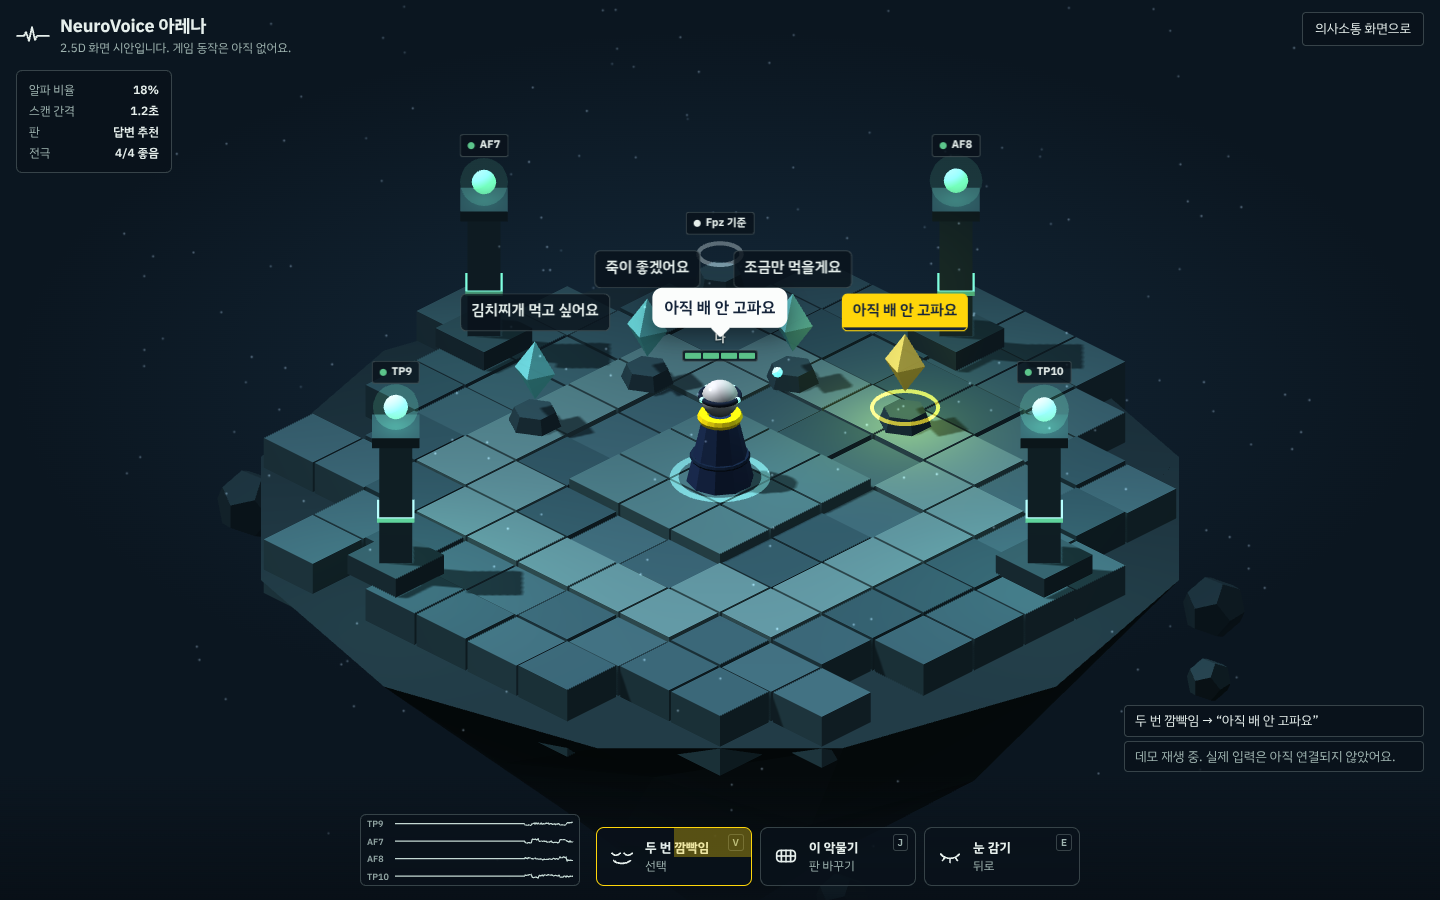
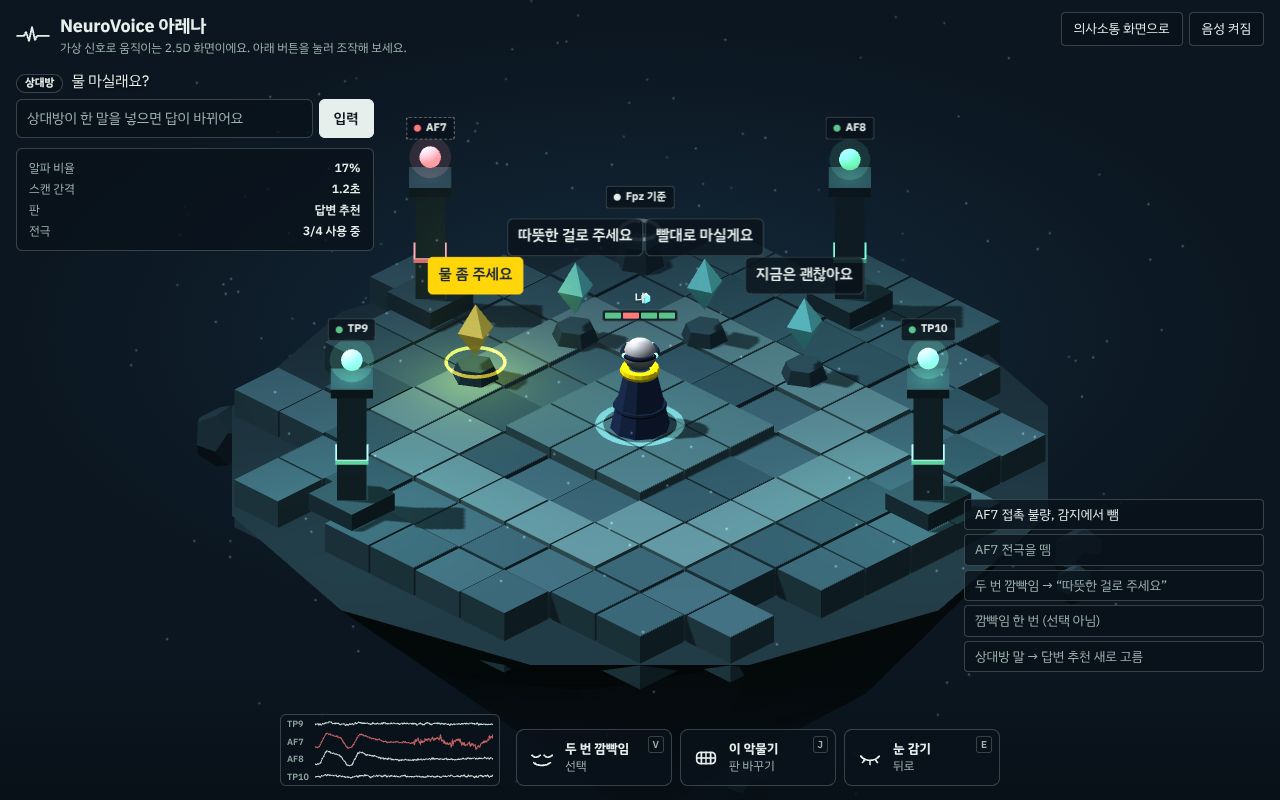
Describe arena controls in README
Claude-Session: https://claude.ai/code/session_019r8MFpbASB7t6JJiH4ax6f

diff --git a/README.md b/README.md
@@ -37,13 +37,24 @@
 
 <img src="docs/screenshot-mobile.png" width="300" alt="NeuroVoice 모바일 화면(어두운 테마)">
 
-## 2.5D 아레나 (화면 시안)
+## 2.5D 아레나
 
-`arena.html`은 같은 흐름을 쿼터뷰 장면으로 보여 주는 디자인 시안입니다. 섬 가장자리의 기둥 네 개가 전극 배치(TP9, AF7, AF8, TP10)를, 위쪽의 작은 돌이 기준 전극 Fpz를 나타내고, 가운데 아바타 둘레의 크리스털이 답변 후보입니다. 스캔 하이라이트가 크리스털을 돌고, 데모 루프가 두 번 깜빡임(선택), 이 악물기(판 바꾸기), 눈 감기(뒤로)를 차례로 보여 줍니다. 실제 입력과 게임 동작은 아직 연결하지 않았습니다.
+`arena.html`은 같은 흐름을 쿼터뷰 장면으로 조작하는 화면입니다. 섬 가장자리의 기둥 네 개가 전극 배치(TP9, AF7, AF8, TP10)를, 위쪽의 작은 돌이 기준 전극 Fpz를 나타내고, 가운데 아바타 둘레의 크리스털이 답변 후보입니다. 의사소통 화면과 같은 가상 헤드밴드, 감지기, 스캐너로 움직입니다.
+
+| 조작 | 결과 |
+|---|---|
+| 두 번 깜빡임 (하단 버튼, `V`) | 빛나는 크리스털로 빔이 나가고 그 말을 읽어 줍니다 |
+| 이 악물기 (누르고 있기, `J`) | 답변 추천 ↔ 자주 쓰는 말 |
+| 눈 감기 (누르고 있기, `E`) | 보호막이 켜지고 처음 크리스털로 돌아갑니다 |
+| 크리스털 이름표 누르기 | 그 말을 바로 고릅니다 |
+| 전극 이름표 누르기 | 그 전극이 떨어진 상태가 되어 기둥이 붉어지고 감지에서 빠집니다 |
+| 상대방 말 입력 | 크리스털의 답변 후보가 바뀝니다 |
+
+`B`를 누르면 한 번 깜빡임이 들어가는데, 선택으로 치지 않는 것을 확인할 수 있습니다. 왼쪽 아래 작은 파형은 감지기가 실제로 보고 있는 필터된 신호입니다.
 
 ![NeuroVoice 2.5D 아레나 화면](docs/screenshot-arena.png)
 
-장면은 Three.js(r128, CDN)로 그립니다. 브라우저 콘솔에서 `NVArena.select()`, `NVArena.switchBoard()`, `NVArena.goBack()`으로 연출을 직접 볼 수 있습니다.
+장면은 Three.js(r128, CDN)로 그립니다. 브라우저 콘솔에서 `NVArena.select(0)`, `NVArena.switchBoard()`, `NVArena.goBack()`으로 연출만 따로 볼 수 있습니다.
 
 ## 실행
 
@@ -84,7 +95,7 @@ flowchart LR
 | `src/speech.js` | 음성 합성, 음성 인식 |
 | `src/monitor.js` | 캔버스 파형 그리기 |
 | `src/app.js` | 연결과 화면 상태 |
-| `arena.html`, `src/arena.js`, `src/arena.css` | 2.5D 아레나 장면(디자인 시안) |
+| `arena.html`, `src/arena.js`, `src/arena.css` | 2.5D 아레나 장면과 조작 |
 
 의사소통 화면은 외부 의존성이 없고, 아레나 화면만 Three.js를 CDN으로 불러옵니다. 신호 처리 스크립트는 브라우저와 Node 양쪽에서 읽히는 형태(UMD)라서 그대로 테스트할 수 있습니다.
 
